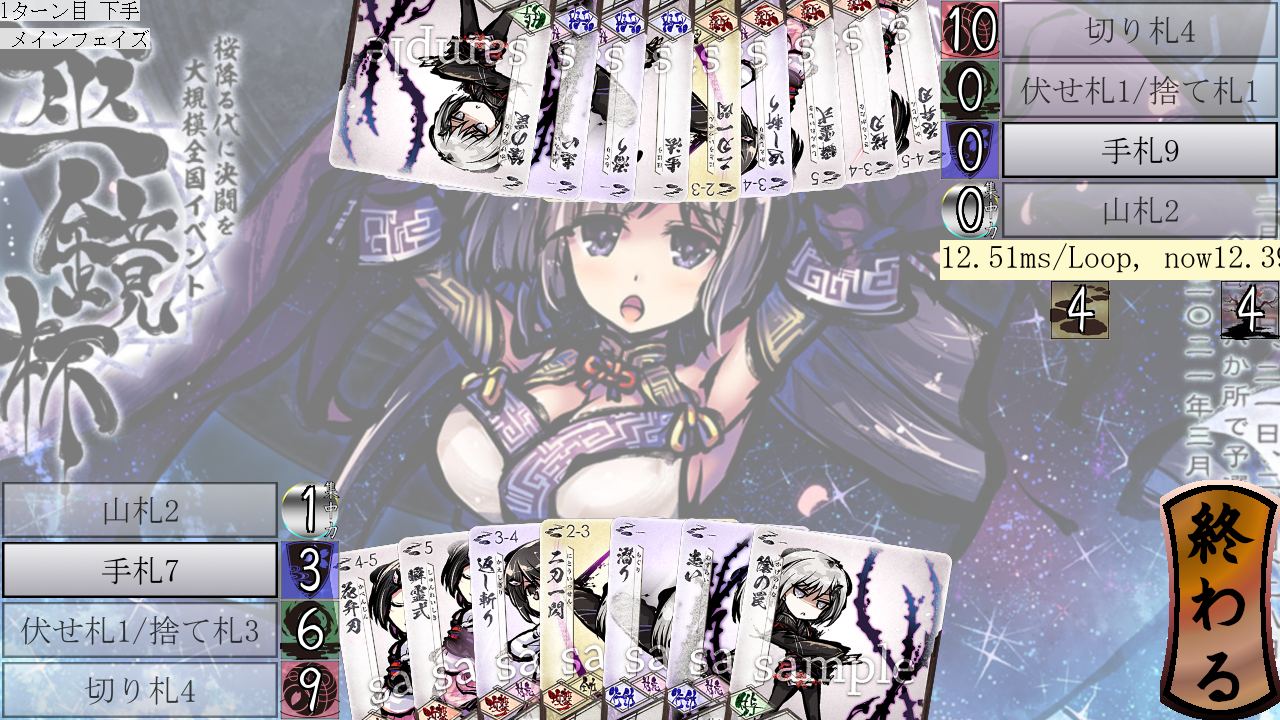
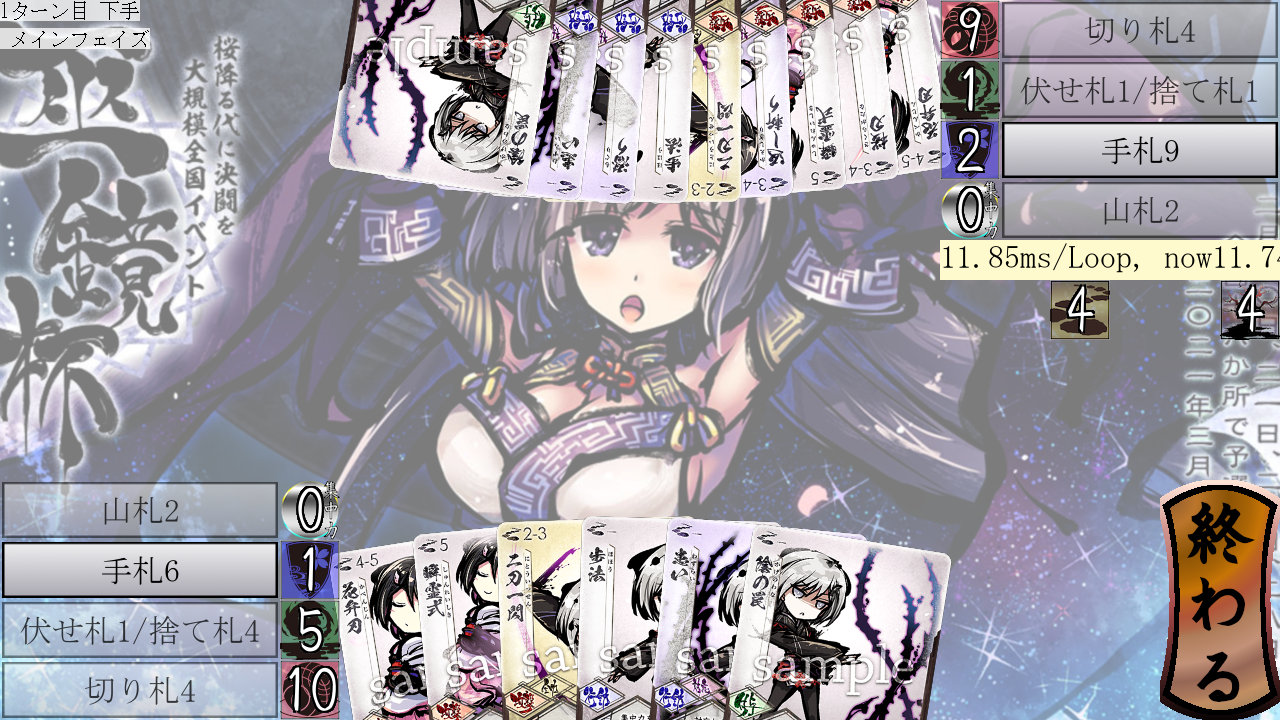
J390:Banmen.b_params.during_taiouのオンオフで返し斬りの対応時のみ発動する纏いを実装

diff --git a/mod/ol/play_kougeki/taiou_taba.py b/mod/ol/play_kougeki/taiou_taba.py
@@ -19,6 +19,6 @@ def _taiou_factory(mouseup: Callable[[Huda], None]) -> TabaFactory:
     return TabaFactory(inject_kwargs={"mouseup": mouseup}, is_ol=True)
 
 def _taiou_mouseup(huda: Huda) -> None:
-    # huda.delivery.b_params.during_taiou = True
+    huda.delivery.b_params.during_taiou = True
     popup_message.add(f"{side_name(huda.hoyuusya)}は対応して「{huda.card.name}」カードを使います")
     huda.card.kaiketu(delivery=huda.delivery, hoyuusya=huda.hoyuusya, huda=huda.base, code=POP_TAIOUED)

diff --git a/kaiketus/m00b.py b/kaiketus/m00b.py
@@ -25,8 +25,7 @@ def _kouka_n_4(delivery: Delivery, hoyuusya: int) -> None:
     delivery.send_ouka_to_ryouiki(hoyuusya=hoyuusya, from_mine=False, from_code=UC_DUST, to_mine=True, to_code=UC_AURA, kazu=1)
 
 def _cond_n_4(delivery: Delivery, hoyuusya: int) -> bool:
-    return False
-    # return delivery.b_params.during_taiou
+    return delivery.b_params.during_taiou
 
 _aan4 = TempKoudou(name="返し斬り：攻撃後", cond=_cond_n_4, kouka=_kouka_n_4, todo=[[False, UC_DUST, True, UC_AURA, 1]])
 

diff --git a/mod/ol/play_kougeki/play_kougeki.py b/mod/ol/play_kougeki/play_kougeki.py
@@ -60,6 +60,7 @@ class PlayKougeki():
         ...
 
     def _taioued(self, stat: PopStat) -> None:
+        self.delivery.b_params.during_taiou = False
         self.taiou_huda = enforce(stat.huda, Huda)
         self.taiou_taba.clear()
         if not self.kougeki.maai_cond(delivery=self.delivery, hoyuusya=self.hoyuusya):
